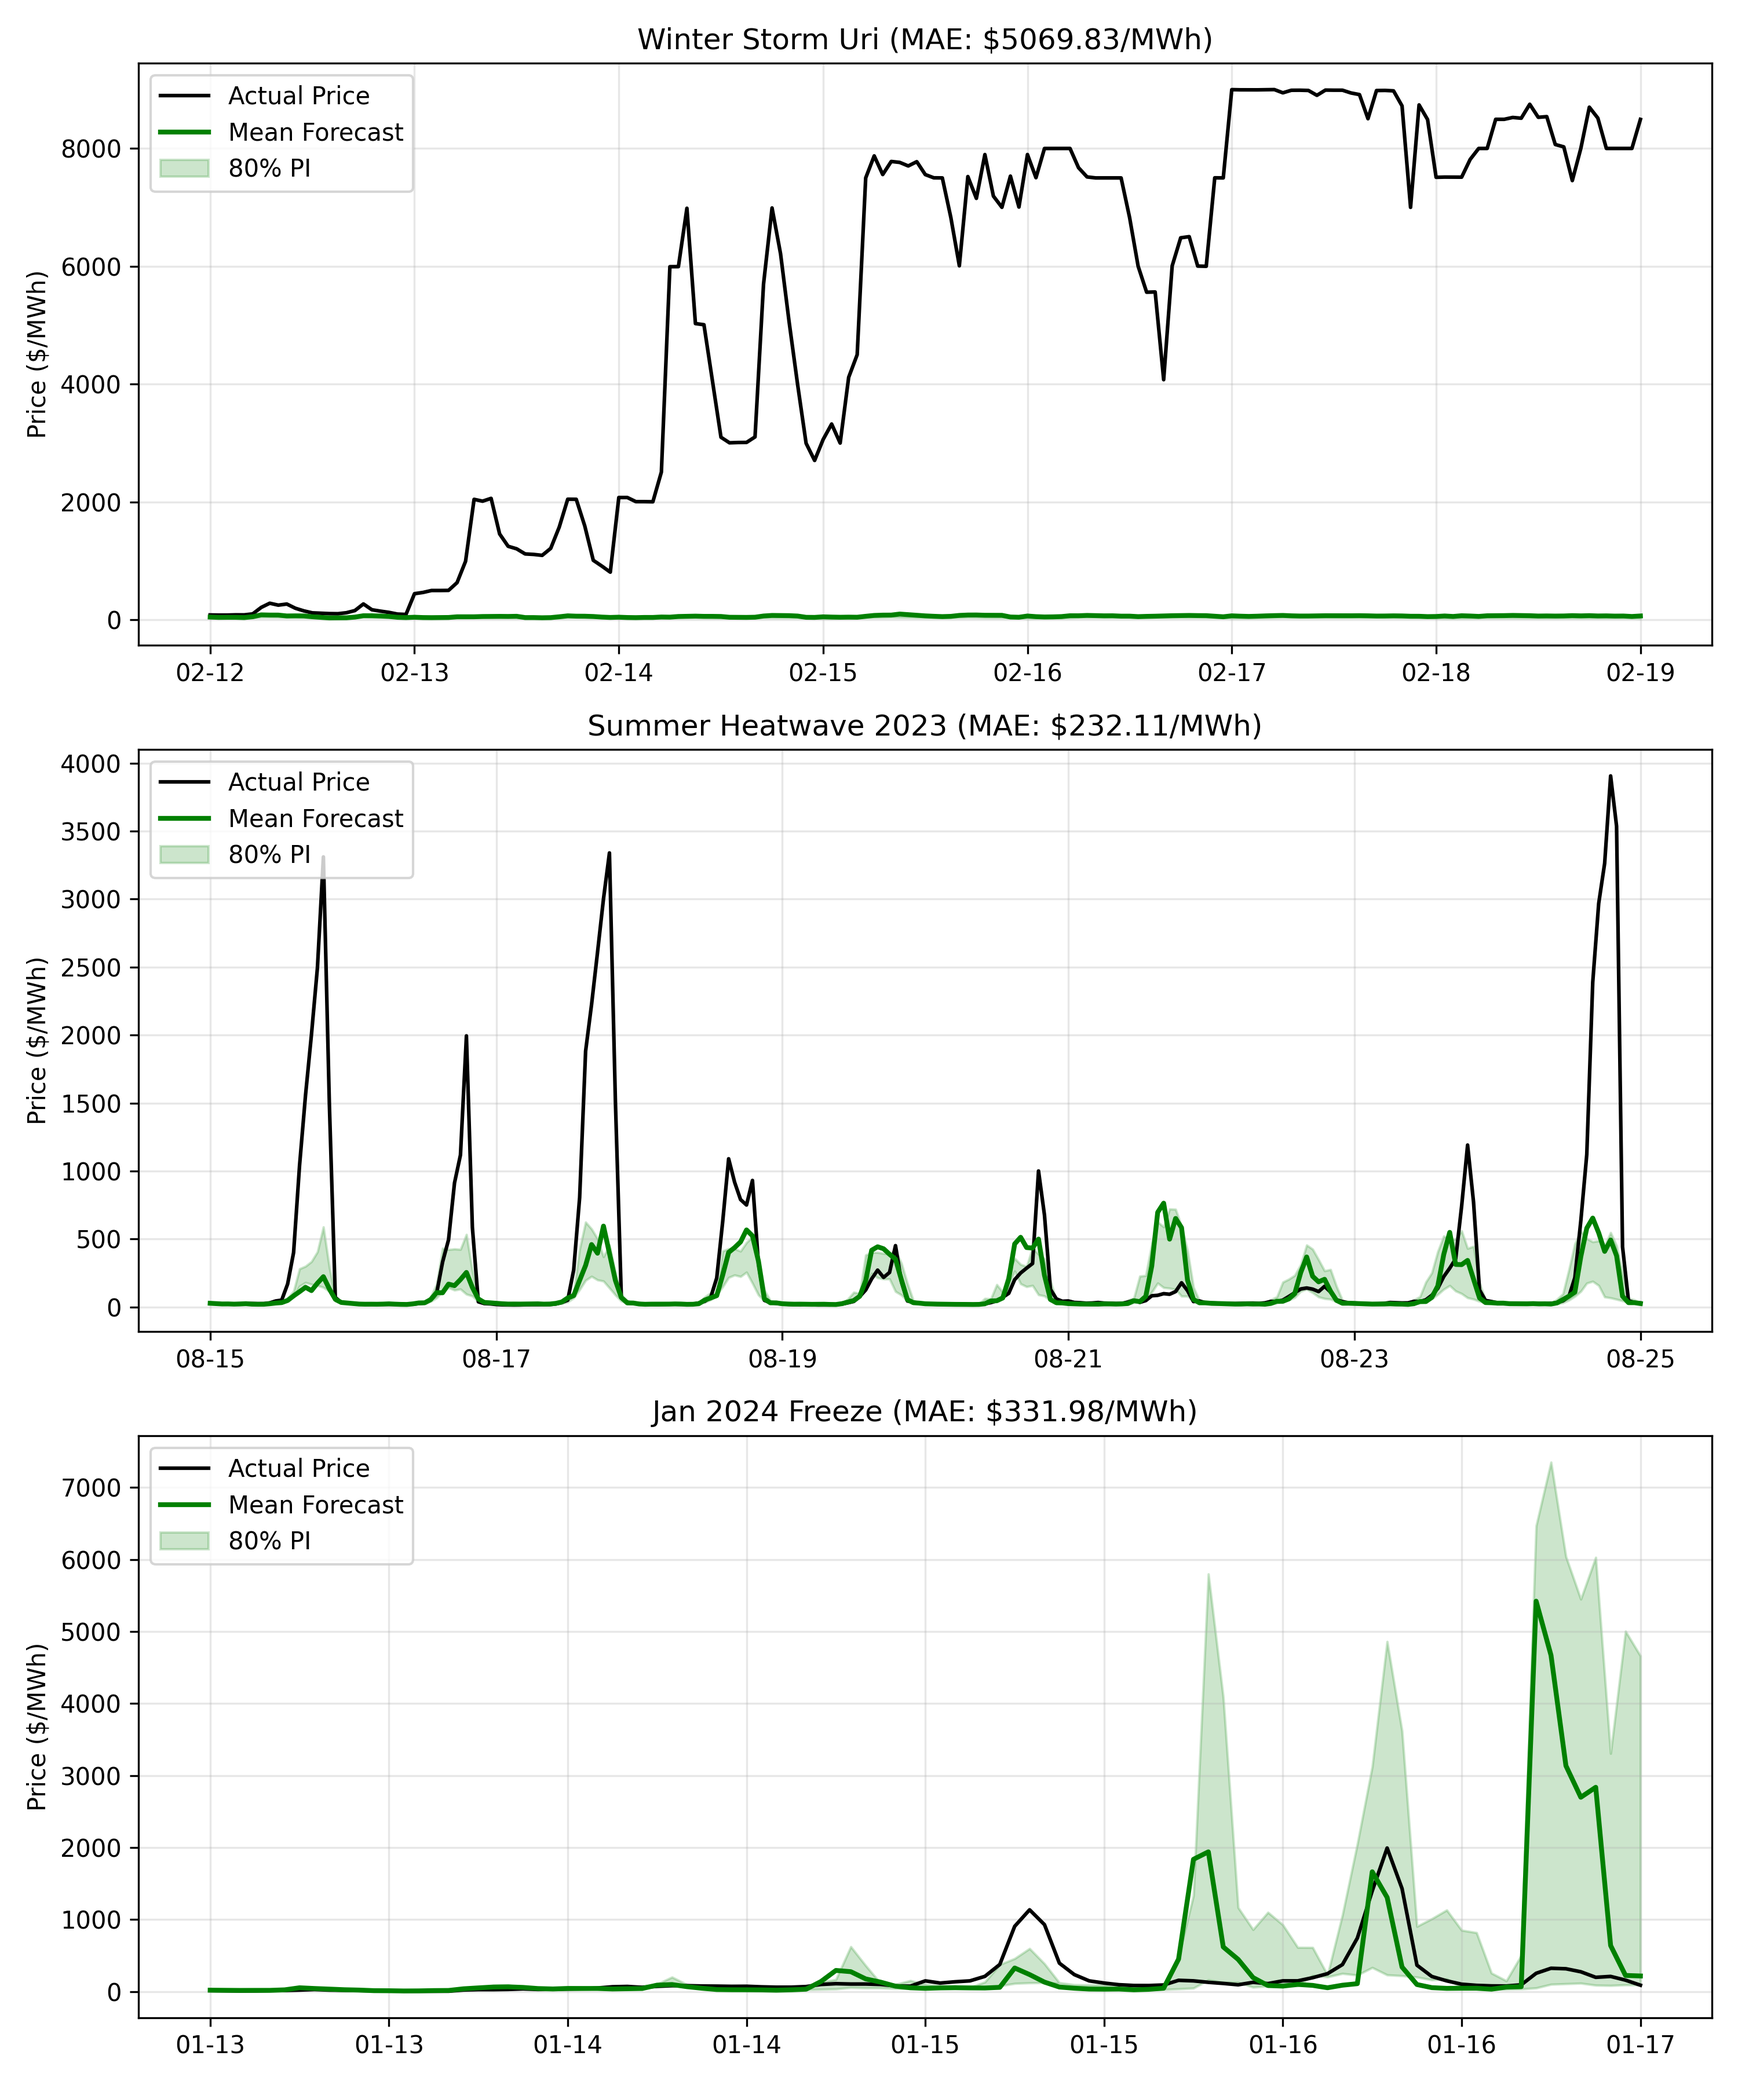
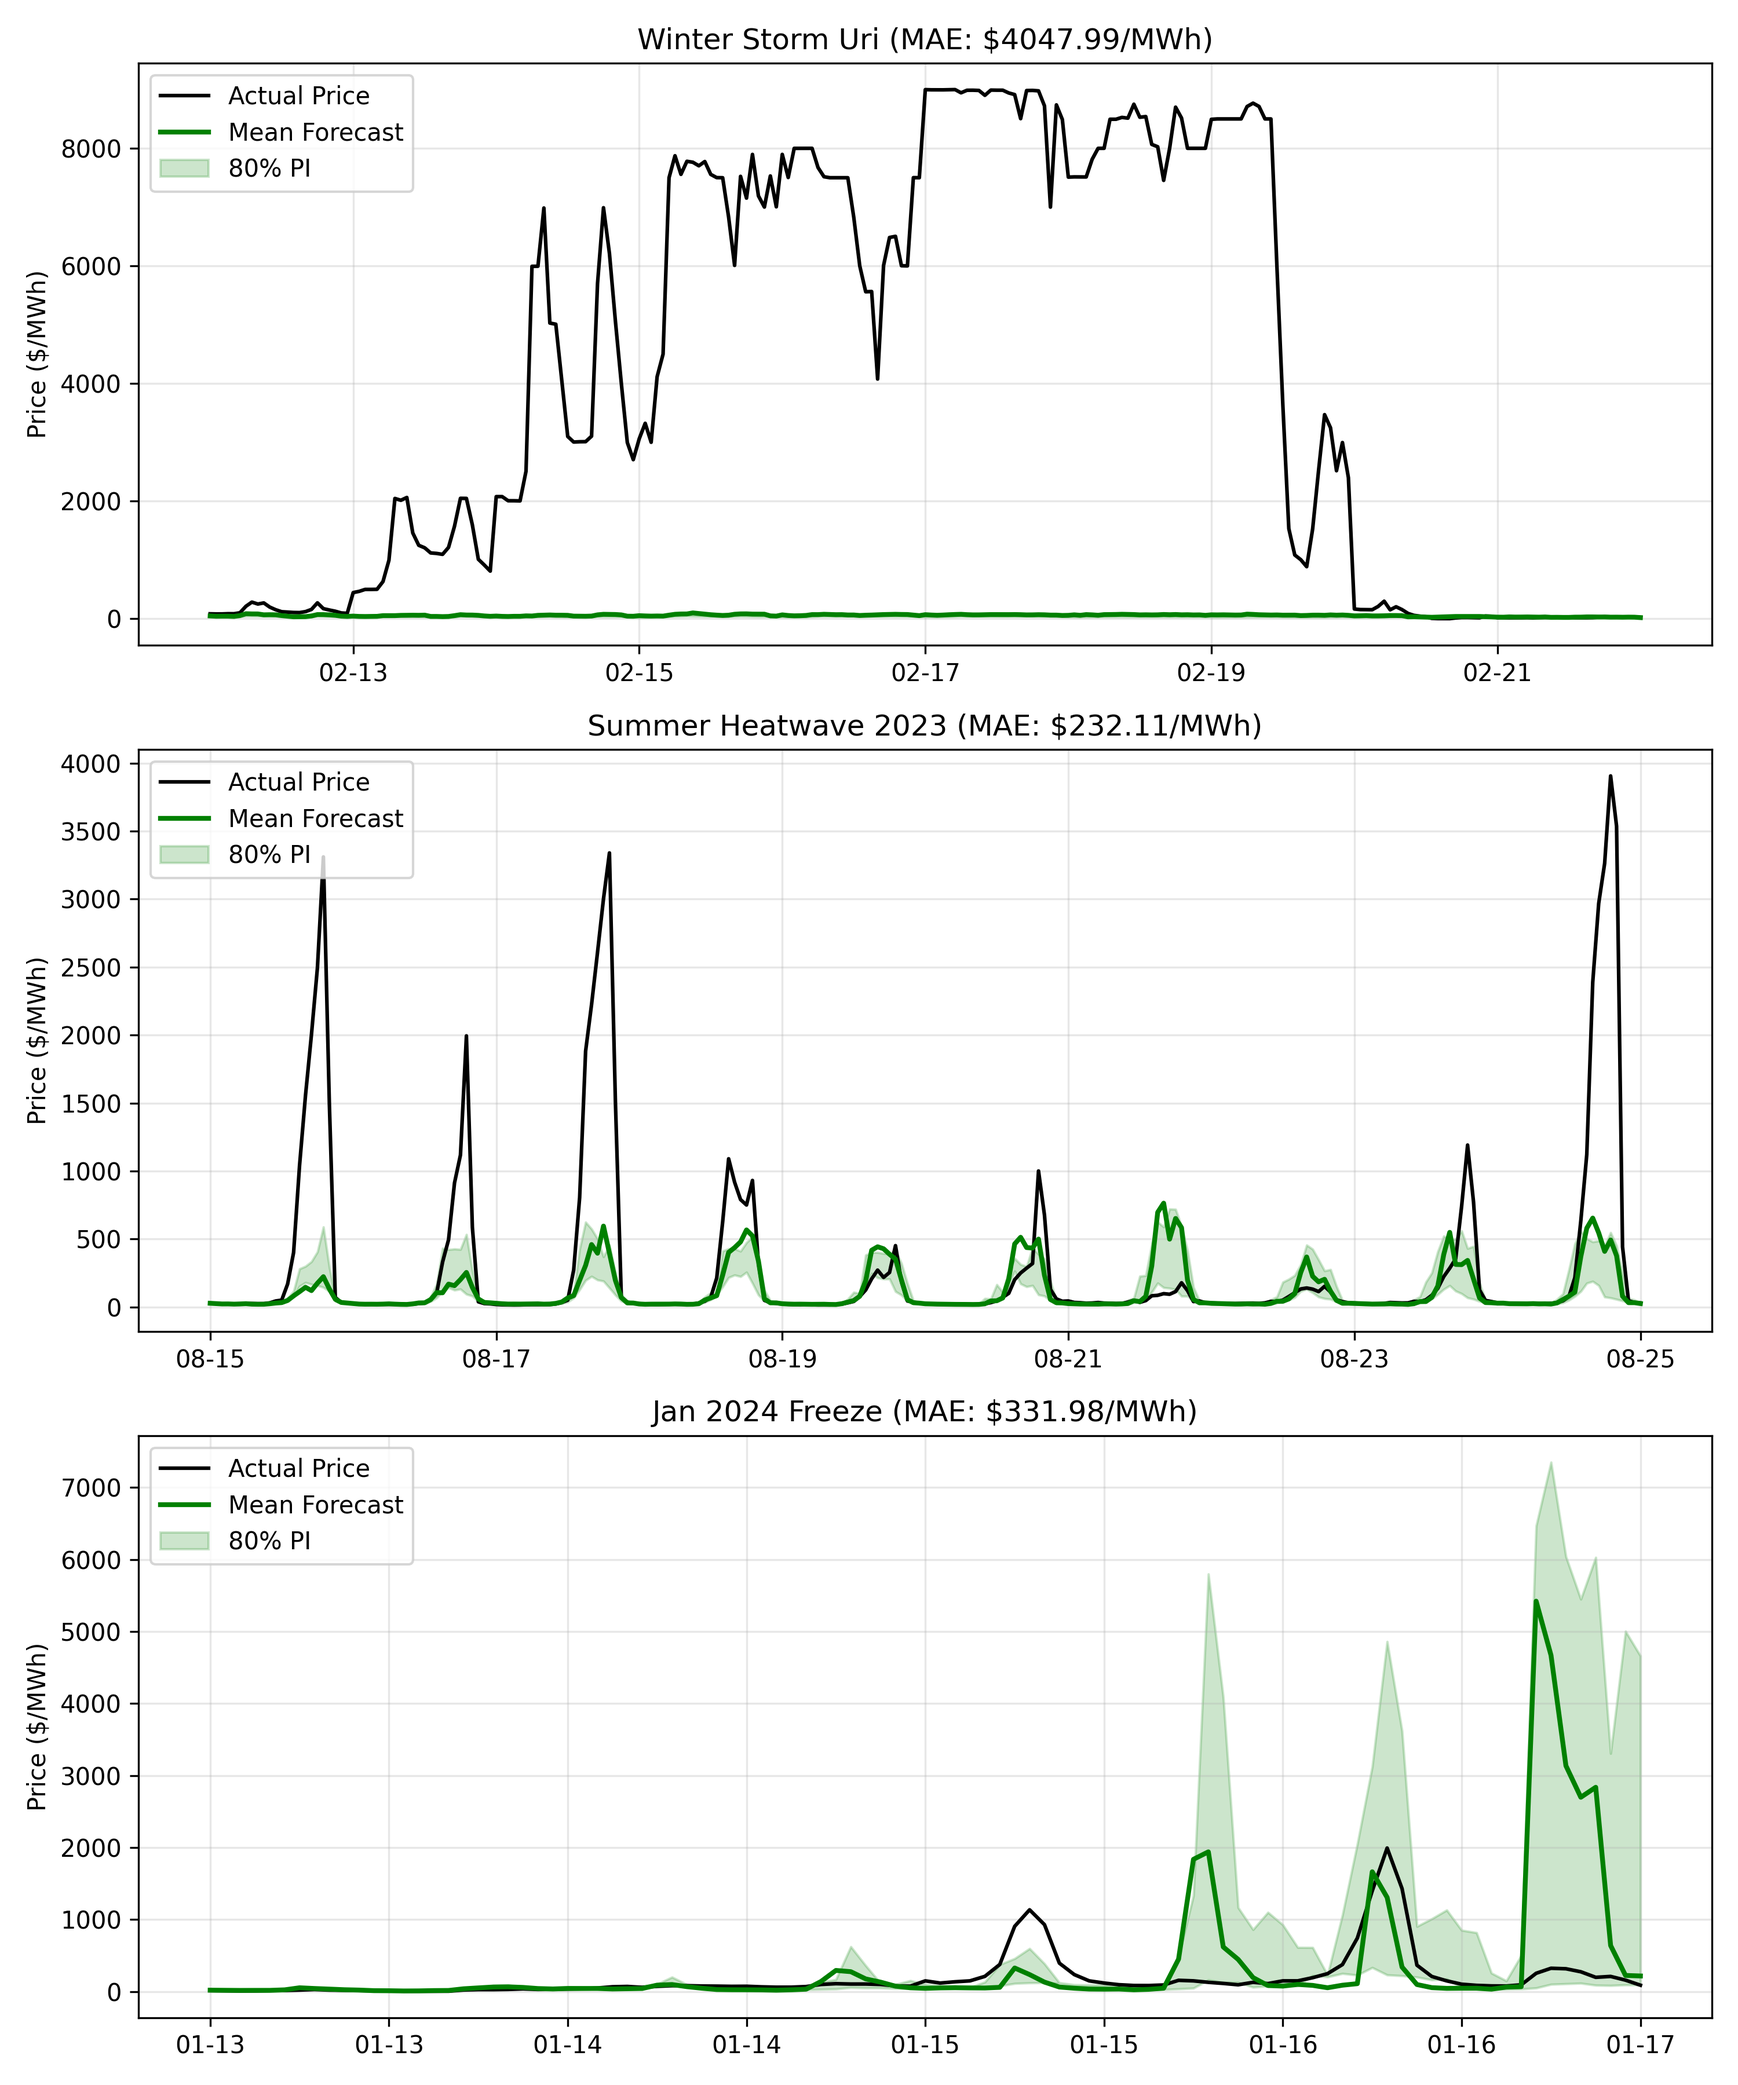
Extended Winter Storm Uri plot range to Feb 22

diff --git a/scripts/analyze_uri.py b/scripts/analyze_uri.py
@@ -33,7 +33,7 @@ def analyze_uri():
     
     # Define periods
     uri_start = pd.Timestamp('2021-02-14')
-    uri_end = pd.Timestamp('2021-02-19')
+    uri_end = pd.Timestamp('2021-02-22')
     
     # Training data would have been everything before Uri
     train_data = df[df['ds'] < uri_start]
@@ -152,7 +152,7 @@ def create_diagnostic_figure(df, uri_start, uri_end, train_data):
                     alpha=0.3, color='red', label='Below Training Range')
     ax.set_xlabel('Date')
     ax.set_ylabel('Temperature (°C)')
-    ax.set_title('C) Temperature During Uri (Feb 14-19, 2021)')
+    ax.set_title('C) Temperature During Uri (Feb 14-22, 2021)')
     ax.legend()
     ax.tick_params(axis='x', rotation=45)
     
@@ -166,7 +166,7 @@ def create_diagnostic_figure(df, uri_start, uri_end, train_data):
                     alpha=0.3, color='red', label='Above Training Range')
     ax.set_xlabel('Date')
     ax.set_ylabel('Price ($/MWh)')
-    ax.set_title('D) Prices During Uri (Feb 14-19, 2021)')
+    ax.set_title('D) Prices During Uri (Feb 14-22, 2021)')
     ax.legend()
     ax.tick_params(axis='x', rotation=45)
     

diff --git a/scripts/forecast_extreme_events.py b/scripts/forecast_extreme_events.py
@@ -9,7 +9,7 @@ import warnings
 warnings.filterwarnings('ignore')
 
 def load_data():
-    ""Load and merge price + weather data.""
+    """Load and merge price + weather data."""
     print("Loading data...")
     df_price = pd.read_parquet("data/raw/ercot_da_spp_5y.parquet")
     df_price['ds'] = pd.to_datetime(df_price['interval_start_utc'])
@@ -32,7 +32,7 @@ def load_data():
     return df, feature_cols
 
 def run_backtest(df, start_date, end_date, event_name):
-    ""Run forecast for a specific date range (train once before start).""
+    """Run forecast for a specific date range (train once before start)."""
     print(f"\nRunning backtest for {event_name} ({start_date} to {end_date})...")
     
     test_start = pd.Timestamp(start_date)
@@ -109,7 +109,7 @@ def main():
     
     # Define events
     events = [
-        ('Winter Storm Uri', '2021-02-12', '2021-02-19'),
+        ('Winter Storm Uri', '2021-02-12', '2021-02-22'),
         ('Summer Heatwave 2023', '2023-08-15', '2023-08-25'),
         ('Jan 2024 Freeze', '2024-01-13', '2024-01-17')
     ]

diff --git a/paper/main.tex b/paper/main.tex
@@ -369,7 +369,7 @@ Figure~\ref{fig:uri_diagnostic} provides a diagnostic analysis of the model's fa
 \begin{figure}[ht!]
     \centering
     \includegraphics[width=\columnwidth]{figures/uri_diagnostic.png}
-    \caption{Diagnostic analysis of Winter Storm Uri. (A) Temperature during Uri was far outside the training distribution. (B) Prices (log scale) reached 4.4$\times$ training maximum. (C) Hourly temperatures during Feb 14--19, 2021 with training range shown. (D) Hourly prices showing the \$9,000 cap. Shaded regions indicate values outside training range.}
+    \caption{Diagnostic analysis of Winter Storm Uri. (A) Temperature during Uri was far outside the training distribution. (B) Prices (log scale) reached 4.4$\times$ training maximum. (C) Hourly temperatures during Feb 14--22, 2021 with training range shown. (D) Hourly prices showing the \$9,000 cap. Shaded regions indicate values outside training range.}
     \label{fig:uri_diagnostic}
 \end{figure}
 
